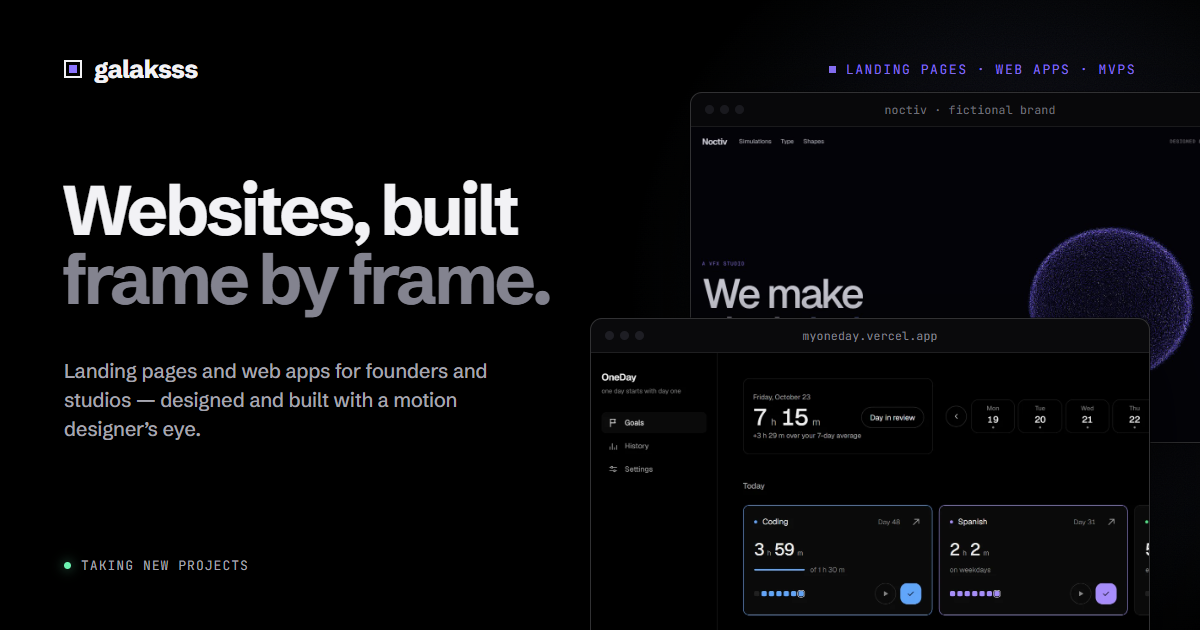
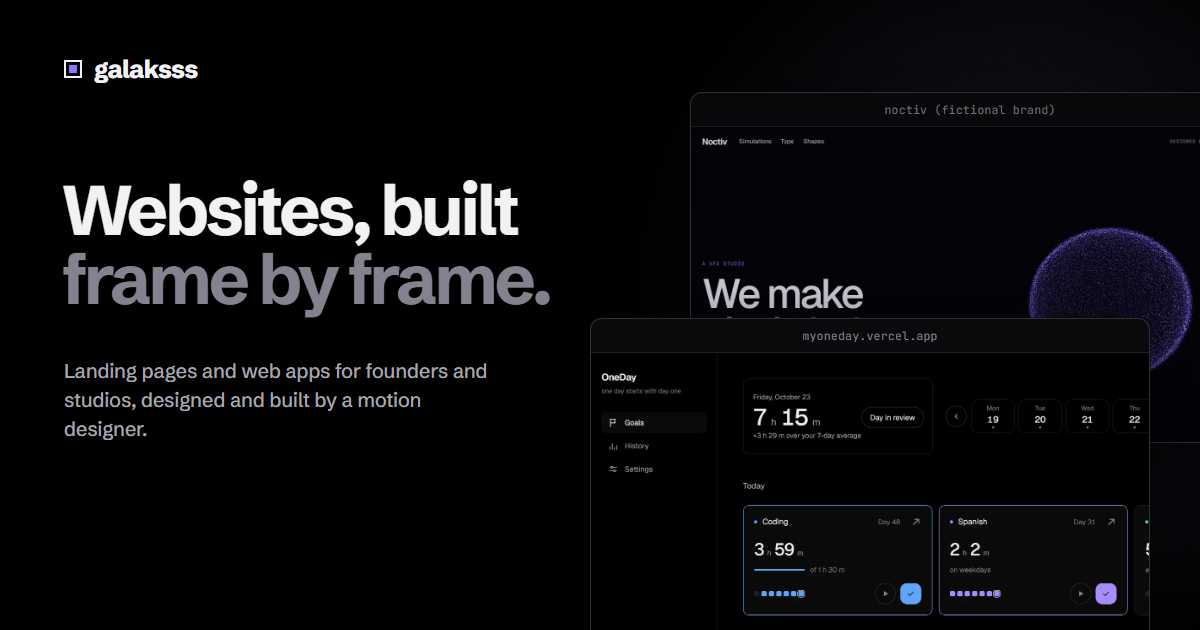
Превью ссылки и подписи окон витрины без штампов

diff --git a/tools/og.html b/tools/og.html
@@ -19,21 +19,15 @@ html,body{width:1200px;height:630px;overflow:hidden;background:#000;color:var(--
 .logo{display:flex;align-items:center;gap:12px;font-weight:800;font-size:25px;letter-spacing:-.035em}
 .mark{width:18px;height:18px;border:2px solid var(--ink);position:relative}
 .mark::after{content:'';position:absolute;inset:3px;background:var(--uv)}
-.kicker{display:flex;align-items:center;gap:10px;font-family:var(--mono);font-size:13px;letter-spacing:.12em;text-transform:uppercase;color:var(--uv)}
-.kicker i{width:7px;height:7px;background:var(--uv)}
 
 h1{position:absolute;left:62px;top:176px;font-weight:700;font-size:70px;line-height:.98;letter-spacing:-.05em}
 h1 span{display:block}
 .dim{color:var(--mute)}
 .lead{position:absolute;left:64px;top:356px;width:430px;font-size:20px;line-height:1.45;color:var(--ink-2);letter-spacing:-.01em}
-.avail{position:absolute;left:64px;bottom:56px;display:flex;align-items:center;gap:10px;font-family:var(--mono);font-size:13px;letter-spacing:.08em;text-transform:uppercase;color:var(--ink-2)}
-.avail i{width:7px;height:7px;border-radius:50%;background:var(--ok);box-shadow:0 0 12px rgba(108,242,176,.7)}
 
 /* окна с настоящими работами: сзади Noctiv, спереди OneDay */
 .win{position:absolute;border:1px solid var(--line-2);border-radius:12px;background:var(--panel);overflow:hidden;box-shadow:0 30px 80px rgba(0,0,0,.65),0 0 0 1px rgba(0,0,0,.4)}
 .bar{display:grid;grid-template-columns:1fr auto 1fr;align-items:center;height:34px;padding:0 14px;border-bottom:1px solid var(--line)}
-.dots{display:flex;gap:6px}
-.dots i{width:9px;height:9px;border-radius:50%;background:#1E1E24}
 .url{font-family:var(--mono);font-size:11.5px;color:var(--mute);letter-spacing:.02em}
 .shot{position:relative;overflow:hidden}
 .shot img{display:block;position:absolute;left:0;top:0}
@@ -52,19 +46,17 @@ h1 span{display:block}
 
   <div class="top">
     <div class="logo"><i class="mark"></i>galaksss</div>
-    <div class="kicker"><i></i>Landing pages · Web apps · MVPs</div>
   </div>
 
   <h1><span>Websites, built</span><span class="dim">frame by frame.</span></h1>
-  <p class="lead">Landing pages and web apps for founders and studios — designed and built with a motion designer’s eye.</p>
-  <div class="avail"><i></i>Taking new projects</div>
+  <p class="lead">Landing pages and web apps for founders and studios, designed and built by a motion designer.</p>
 
   <div class="win w-back">
-    <div class="bar"><span class="dots"><i></i><i></i><i></i></span><span class="url">noctiv · fictional brand</span><span></span></div>
+    <div class="bar"><span></span><span class="url">noctiv (fictional brand)</span><span></span></div>
     <div class="shot"><img src="../public/work/noctiv-hero.jpg"></div>
   </div>
   <div class="win w-front">
-    <div class="bar"><span class="dots"><i></i><i></i><i></i></span><span class="url">myoneday.vercel.app</span><span></span></div>
+    <div class="bar"><span></span><span class="url">myoneday.vercel.app</span><span></span></div>
     <div class="shot"><img src="../public/work/oneday-goals.webp"></div>
   </div>
 </div></body></html>

diff --git a/index.html b/index.html
@@ -84,11 +84,11 @@
             <img class="is-on" src="/work/oneday-goals.webp" alt="OneDay, the goals screen" width="1800" height="1125" decoding="async" style="object-position:left top"
                  data-href="https://myoneday.vercel.app/en/about" data-url="myoneday.vercel.app" data-kind="Web app" data-name="OneDay: hours, streaks and a focus mode for your goals">
             <img src="/work/hour-golden.jpg" alt="Hour, a concept landing page" width="1440" height="810" decoding="async"
-                 data-href="/p/hour/index.html" data-url="hour · fictional brand" data-kind="Landing page" data-name="Hour: a lake that lives through a day as you scroll">
+                 data-href="/p/hour/index.html" data-url="hour (fictional brand)" data-kind="Landing page" data-name="Hour: a lake that lives through a day as you scroll">
             <img src="/work/orrin-hero.jpg" alt="Orrin, a concept product page" width="1440" height="810" decoding="async"
-                 data-href="/p/orrin/index.html" data-url="orrin · fictional brand" data-kind="Product page" data-name="Orrin: a speaker drawn in a shader, taken apart by scroll">
+                 data-href="/p/orrin/index.html" data-url="orrin (fictional brand)" data-kind="Product page" data-name="Orrin: a speaker drawn in a shader, taken apart by scroll">
             <img src="/work/noctiv-hero.jpg" alt="Noctiv, a concept studio site" width="1440" height="810" decoding="async"
-                 data-href="/p/noctiv/index.html" data-url="noctiv · fictional brand" data-kind="Studio site" data-name="Noctiv: sixty thousand particles for a VFX studio">
+                 data-href="/p/noctiv/index.html" data-url="noctiv (fictional brand)" data-kind="Studio site" data-name="Noctiv: sixty thousand particles for a VFX studio">
           </div>
           <a class="reel__open" href="https://myoneday.vercel.app/en/about" target="_blank" rel="noopener" data-reel-link><span>Open the site</span></a>
           <i class="reel__time" aria-hidden="true"><i data-reel-bar></i></i>
